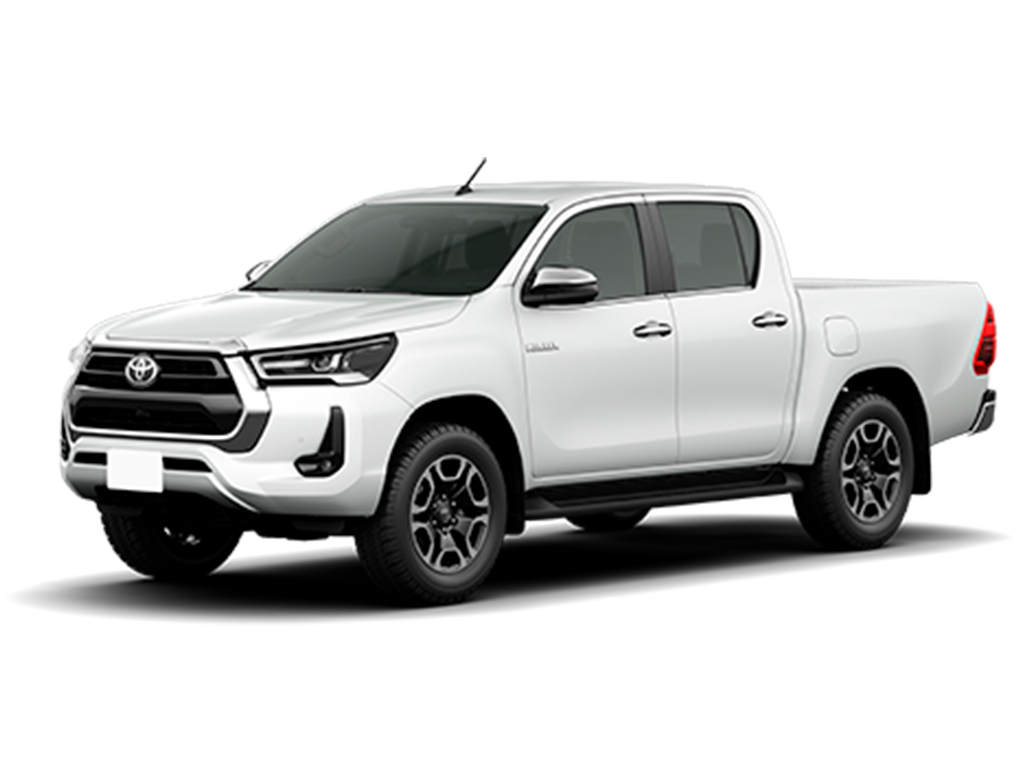
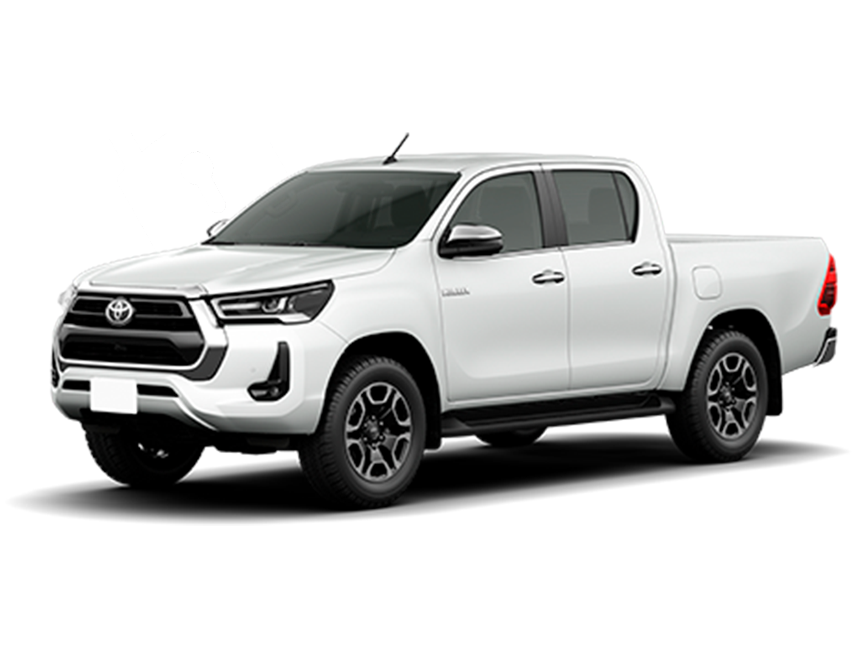
att

diff --git a/assets/css/style.css b/assets/css/style.css
@@ -340,7 +340,7 @@ main {
     background-size: contain;
     height: 500px;
     width: 50%;
-    background-image: url(../imagens/comprar-srx-4x4-automatico_a0d05b40c8.png);
+    background-image: url(../imagens/comprar-srx-4x4-automatico_a0d05b40c8.webp);
 }
 
 
